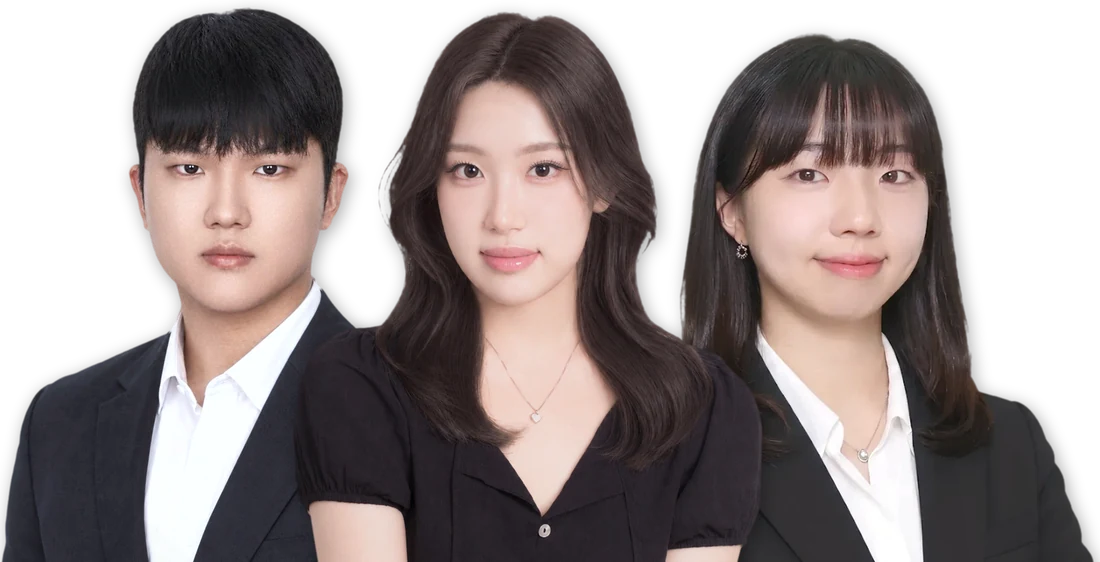
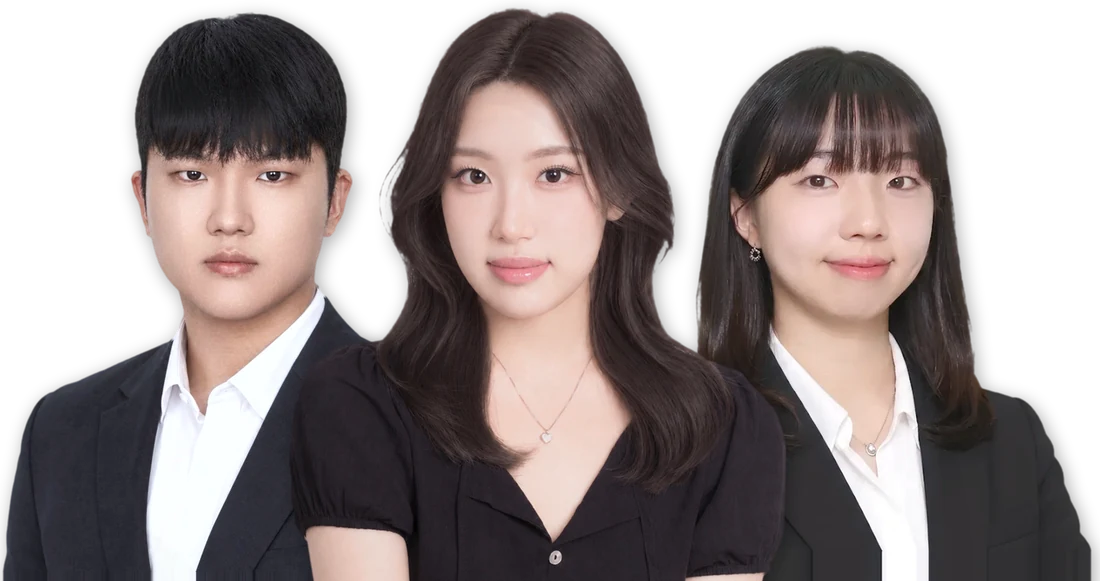
메이트랩 3인 사진: 권세은 줄이고 세 사람 얼굴 높이·눈높이 동일하게 맞춤 [skip netlify]
Claude-Session: https://claude.ai/code/session_011njH4Ur6oq6sieSq6qMimB

diff --git a/matelab.html b/matelab.html
@@ -322,7 +322,7 @@ section[data-tab].tab-on{animation:tabIn .35s ease both}
   </div>
   <figure class="hero-person team3">
     <img src="img/matelab/team-lab.webp" alt="원장 김동완 · 부원장 김소진 · 영어팀장 권세은"/>
-    <figcaption><span style="left:21.9%"><small>원장</small>김동완</span><span style="left:47%"><small>부원장</small>김소진</span><span style="left:74.8%"><small>영어팀장</small>권세은</span></figcaption>
+    <figcaption><span style="left:22.4%"><small>원장</small>김동완</span><span style="left:48.1%"><small>부원장</small>김소진</span><span style="left:75.7%"><small>영어팀장</small>권세은</span></figcaption>
   </figure>
 </div></div>
   <div class="shelf" id="shelf" aria-hidden="true"><img src="img/matelab/kr-gojeon-vocab-0630.webp" alt="" loading="eager"/><img src="img/matelab/kr-gojeonsiga.webp" alt="" loading="eager"/><img src="img/matelab/kr-grammar-basic.webp" alt="" loading="eager"/><img src="img/matelab/kr-grammar-theory.webp" alt="" loading="eager"/><img src="img/matelab/kr-lit-1.webp" alt="" loading="eager"/><img src="img/matelab/kr-lit-2.webp" alt="" loading="eager"/><img src="img/matelab/kr-lit-3.webp" alt="" loading="eager"/><img src="img/matelab/kr-lit-concept-0301.webp" alt="" loading="eager"/><img src="img/matelab/kr-practice-1.webp" alt="" loading="eager"/><img src="img/matelab/kr-practice-2.webp" alt="" loading="eager"/><img src="img/matelab/kr-practice-3.webp" alt="" loading="eager"/><img src="img/matelab/kr-practice-4.webp" alt="" loading="eager"/><img src="img/matelab/kr-practice-5.webp" alt="" loading="eager"/><img src="img/matelab/kr-practice-6.webp" alt="" loading="eager"/><img src="img/matelab/kr-practice-7.webp" alt="" loading="eager"/><img src="img/matelab/kr-reading-1.webp" alt="" loading="eager"/><img src="img/matelab/kr-reading-2.webp" alt="" loading="eager"/><img src="img/matelab/kr-reading-3.webp" alt="" loading="eager"/><img src="img/matelab/kr-vocab-1114.webp" alt="" loading="eager"/><img src="img/matelab/nonsul-basic.webp" alt="" loading="eager"/><img src="img/matelab/nonsul-type.webp" alt="" loading="eager"/><img src="img/matelab/nonsul-theme.webp" alt="" loading="eager"/><img src="img/matelab/en-grammar-all.webp" alt="" loading="eager"/><img src="img/matelab/en-grammar-one.webp" alt="" loading="eager"/><img src="img/matelab/en-macro-1.webp" alt="" loading="eager"/><img src="img/matelab/en-macro-2.webp" alt="" loading="eager"/><img src="img/matelab/en-macro-3.webp" alt="" loading="eager"/><img src="img/matelab/en-micro-1.webp" alt="" loading="eager"/><img src="img/matelab/en-micro-2.webp" alt="" loading="eager"/><img src="img/matelab/en-micro-3.webp" alt="" loading="eager"/><img src="img/matelab/en-type-skill.webp" alt="" loading="eager"/><img src="img/matelab/en-voca-adv.webp" alt="" loading="eager"/><img src="img/matelab/en-voca-basic.webp" alt="" loading="eager"/><img src="img/matelab/en-voca-intro.webp" alt="" loading="eager"/></div>
